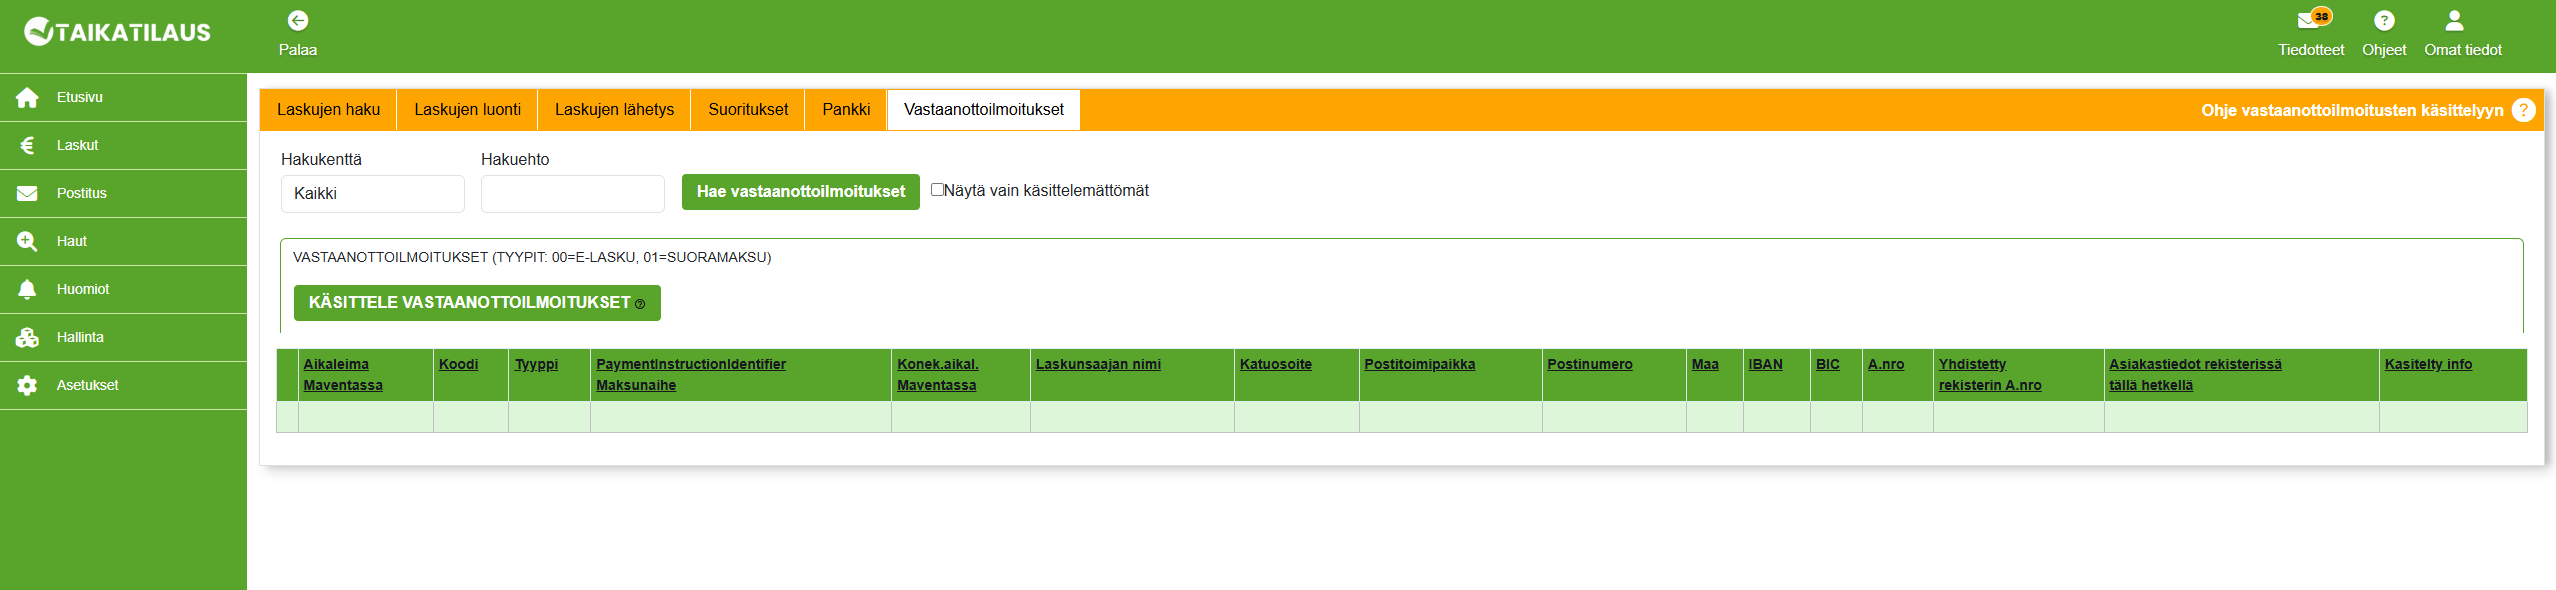
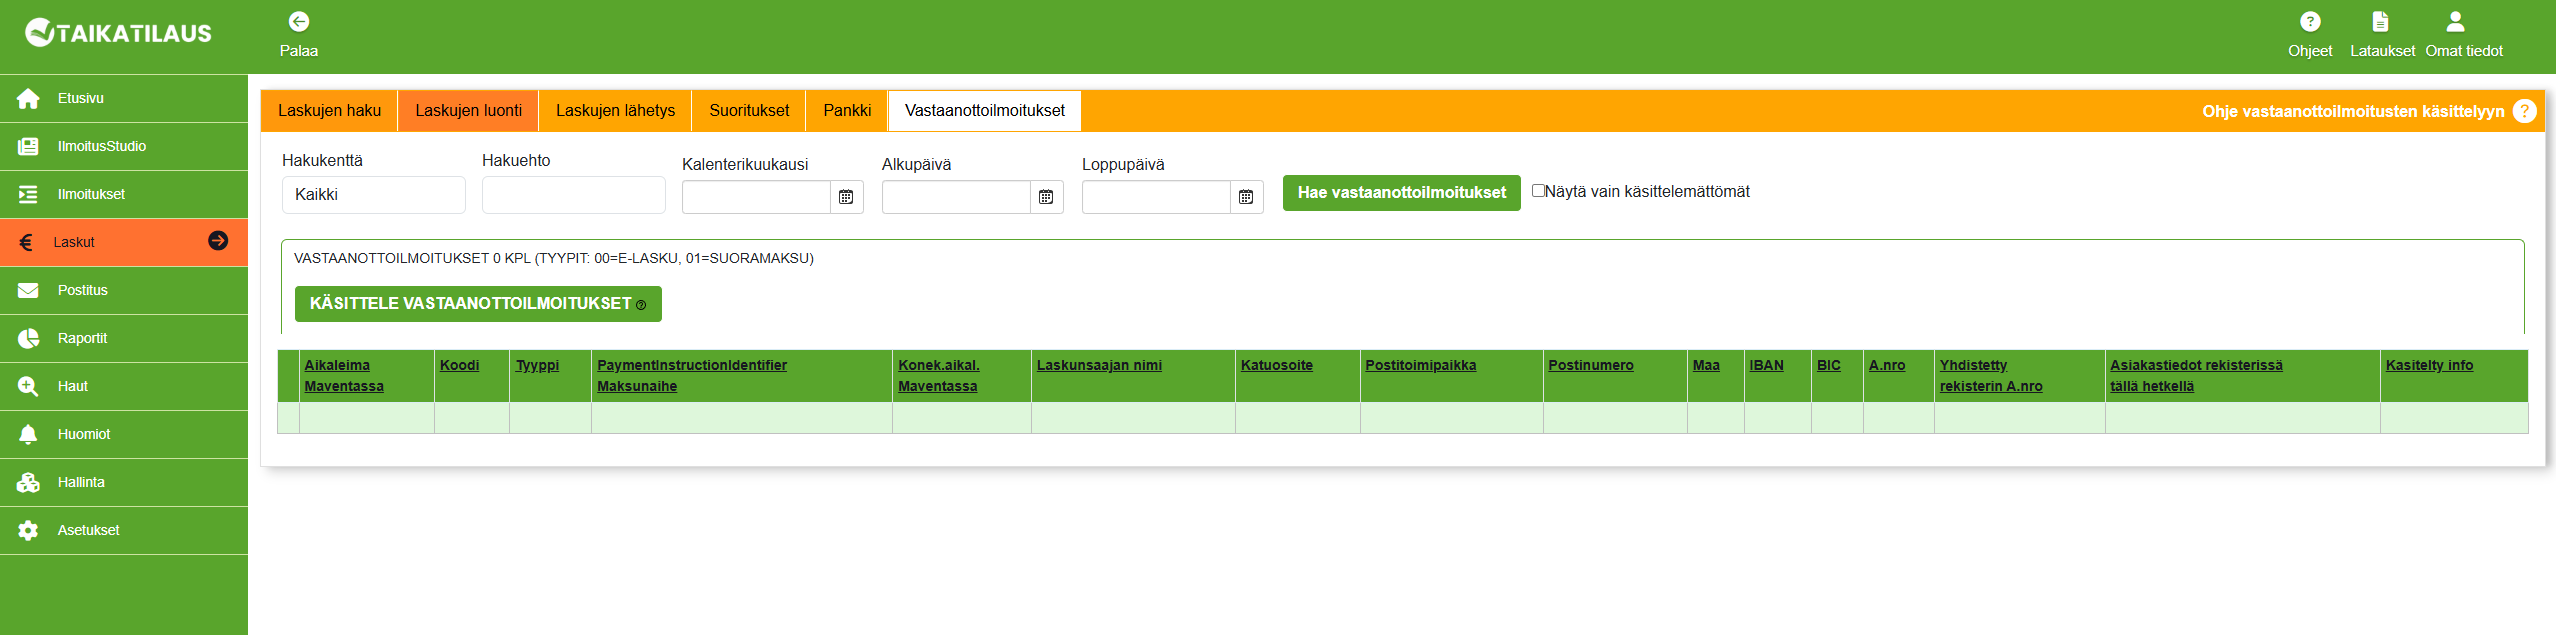
kuvien päivitys ja vastaanottoilmoituksiin hakuehtojen lisäys

Changed region(s): [[0.0, 0.0, 1.0, 0.8237], [0.4636, 0.2746, 0.68, 0.3356], [0.0, 0.8237, 0.0927, 0.8847]]

diff --git a/docs/ohjeet/yleiset_ominaisuudet/lasku.md b/docs/ohjeet/yleiset_ominaisuudet/lasku.md
@@ -798,6 +798,17 @@ Vastaanottoilmoitusten suoramaksujen **tyypit** ovat:
 
 Painamalla **Käsittele vastaanottoilmoitukset** -painiketta vastaanotetut muutokset päivittyvät vertailulistaukselle manuaalisesti. Automaattisesti ne päivitetään 6 tunnin välein.
 
+### Vastaanottoilmoituksien haku
+
+Voit hakea vastaanottoilmoituksia erilaisilla hakuehdoilla. 
+
+- **Hakukenttä**: valitse kaikki kentät tai tietty kenttä, joista haet hakuehtoa vastaavia vastaanottoilmoituksia
+   - Esim. **Hakukenttä**: Koodi, **Hakuehto**: ADD, hakee kaikki vastaanottoilmoitukset, jotka koskevat verkkomaksuvaltuutuksen lisäystä 
+- **Kalenterikuukausi**: hae tietyn kalenterikuukauden vastaanottoilmoitukset
+- **Alku- ja loppupäivä**: hae tietyn aikavälin vastaanottoilmoitukset
+
+![Vastaanottoilmoitukset](/img/ohjeet/vastaanottoilmoitukset-haku.png)
+
 ### Manuaalinen käsittely virhetilanteessa
 
 Tarvittaessa **päivitetään asiakkaan** IBAN/BIC tiedot asiakaskortin **Laskutustietoihin** manuaalisesti virheen tapahtuessa. Näet, että vastaanottoilmoitus on jäänyt virheeseen, kun **Käsitelty info** -sarakkeessa lukee joitain muuta kuin Käsitelty OK.

diff --git a/docs/versiotiedotteet/elokuu_2026.md b/docs/versiotiedotteet/elokuu_2026.md
@@ -115,7 +115,6 @@ Kesän aikana on lisätty ja kehitetty myös asiakaskohtaisia integraatioita:
 - uusi julkisten tilaustuotteiden hakurajapinta verkkosivustoja ja tilauslomakkeita varten
 - Kärkimedian display-mainosten adConnexion-aineiston muodostaminen
 - kirjautuminen ulkoisesta palvelusta JWT-tunnisteella
-- Paytrail-maksutavan käsittely suorituksissa
 - Mega-tuonnissa määrän, ALV:n ja laskutuspyyntöjen käsittely lisätty
 
 Näiden toimintojen saatavuus riippuu asiakkaalla käytössä olevista palveluista ja integraatioista.
